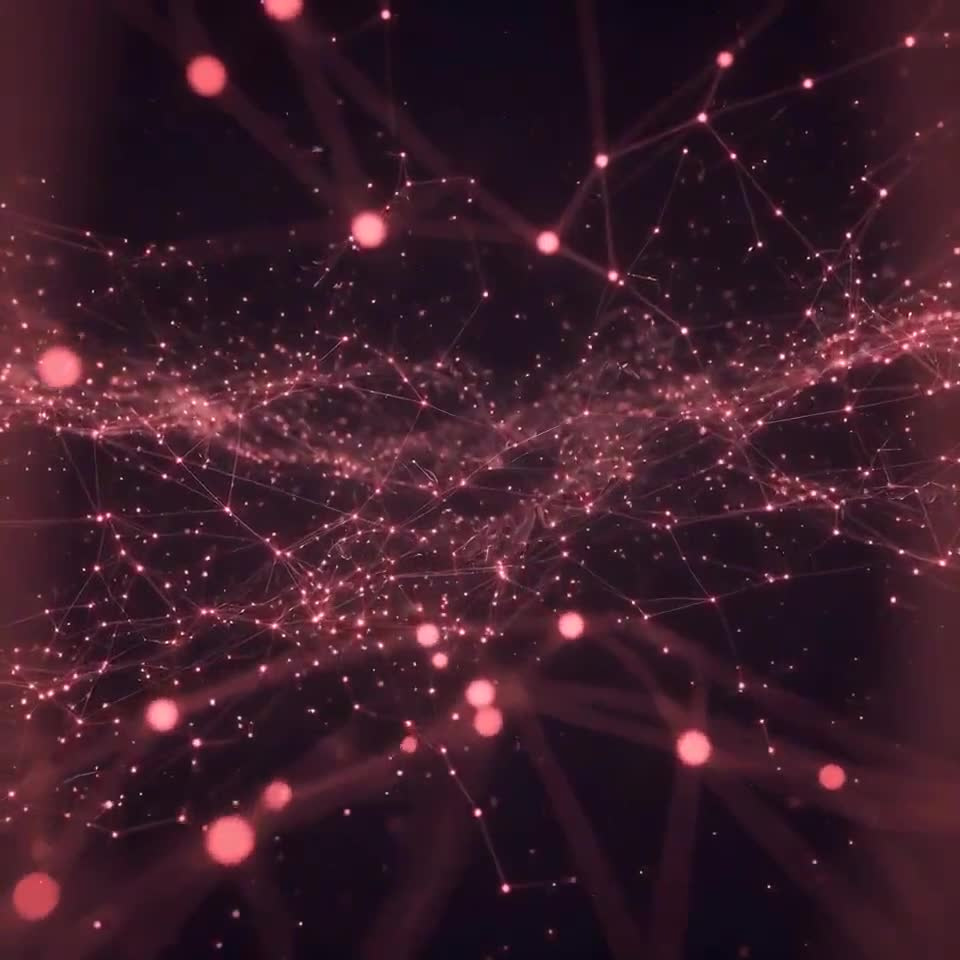
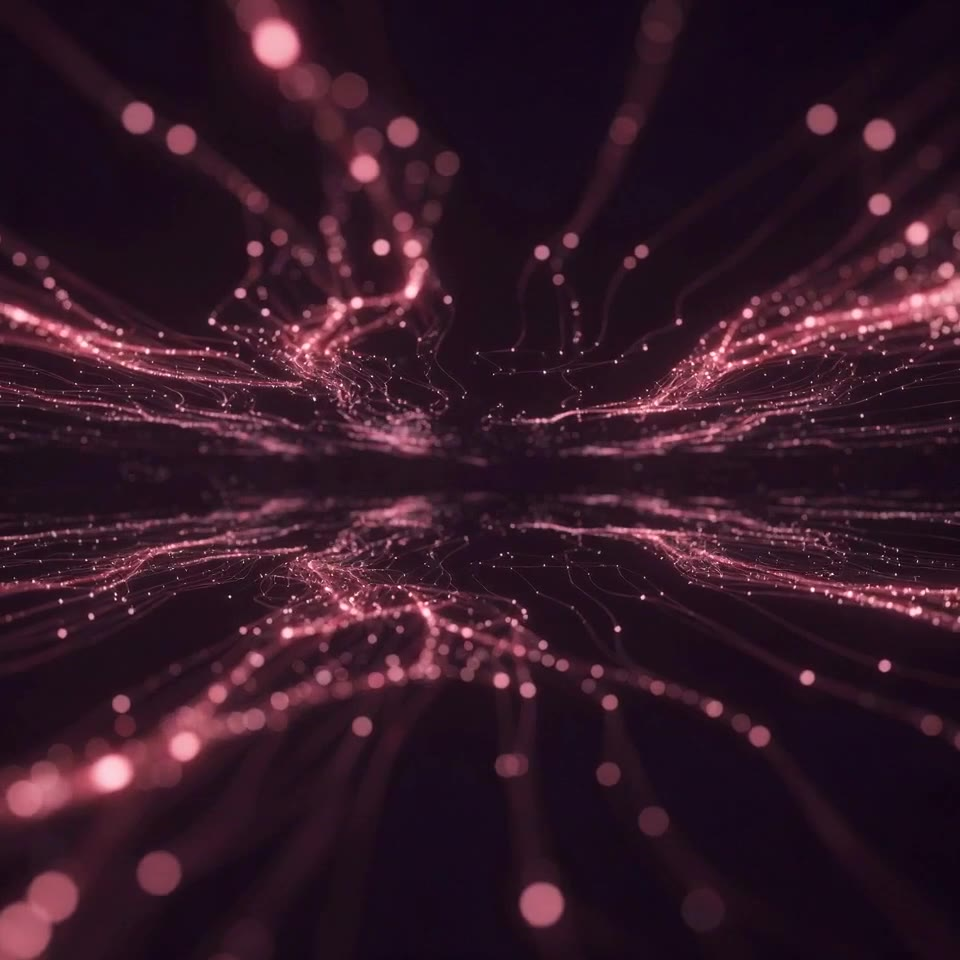
feat(home): video de fondo en HD (re-encode del original a CRF 20)
- Re-comprimí el video original (9.5MB) a 960×960 @ ~2.7 Mbps (CRF 20, preset
  slow, sin audio, +faststart) → 6.9MB nítido. Los puntos flotantes cercanos
  dejan de verse borrosos.
- site-bg.tsx vuelve al fondo de video (crossfade sin cortes) con este archivo.
- Poster regenerado del nuevo source.
- Docs: STATUS.md (home/fondo).

https://claude.ai/code/session_015MHUGChHEsoE6bg5AWK9Bg

diff --git a/components/marketing/site-bg.tsx b/components/marketing/site-bg.tsx
@@ -1,19 +1,84 @@
 "use client";
 
-import { HeroCanvas } from "@/components/marketing/hero-canvas";
+import { useEffect, useRef, type RefObject } from "react";
 
-// Global immersive background — the "data dive" that stays behind the hero, the
-// wizard and the run dashboard ("siempre en el fondo"). Lives in the root layout
-// so it persists across navigation (never re-mounts / cuts).
+// Global immersive video background — the cover animation that stays behind the
+// hero, the wizard and the run dashboard ("siempre en el fondo"). Lives in the
+// root layout so it persists across navigation (never re-mounts / cuts).
 //
-// Uses the Canvas 2D particle/network field (HeroCanvas): crisp at any
-// resolution and DPR (no video compression blur on the near floating dots),
-// zero download, paused under prefers-reduced-motion. A legibility scrim sits on
-// top — lighter at the hero, darker lower down.
+// Seamless loop via crossfade: two stacked <video> elements ping-pong — as one
+// nears its end the other starts and we crossfade opacity, so there's no hard
+// cut and no dark dip ("fade y vuelve a empezar"). Muted; paused under
+// prefers-reduced-motion (poster stays).
 export function SiteBackground() {
+  const aRef = useRef<HTMLVideoElement>(null);
+  const bRef = useRef<HTMLVideoElement>(null);
+
+  useEffect(() => {
+    const a = aRef.current;
+    const b = bRef.current;
+    if (!a || !b) return;
+    if (window.matchMedia("(prefers-reduced-motion: reduce)").matches) {
+      a.pause();
+      b.pause();
+      return;
+    }
+
+    const FADE = 0.9; // seconds
+    let cur = a;
+    let nxt = b;
+    let swapping = false;
+
+    cur.style.opacity = "1";
+    nxt.style.opacity = "0";
+    cur.play().catch(() => {});
+
+    const onTime = (e: Event) => {
+      if (swapping || e.target !== cur) return;
+      const d = cur.duration;
+      if (!d || Number.isNaN(d)) return;
+      if (cur.currentTime >= d - FADE) {
+        swapping = true;
+        nxt.currentTime = 0;
+        nxt.play().catch(() => {});
+        cur.style.opacity = "0";
+        nxt.style.opacity = "1";
+        const finishing = cur;
+        window.setTimeout(() => {
+          finishing.pause();
+          const t = cur;
+          cur = nxt;
+          nxt = t;
+          swapping = false;
+        }, FADE * 1000);
+      }
+    };
+
+    a.addEventListener("timeupdate", onTime);
+    b.addEventListener("timeupdate", onTime);
+    return () => {
+      a.removeEventListener("timeupdate", onTime);
+      b.removeEventListener("timeupdate", onTime);
+    };
+  }, []);
+
+  const vid = (r: RefObject<HTMLVideoElement | null>, first: boolean) => (
+    <video
+      ref={r}
+      src="/hero/hero.mp4"
+      poster={first ? "/hero/hero-poster.jpg" : undefined}
+      muted
+      playsInline
+      autoPlay={first}
+      preload="auto"
+      style={{ position: "absolute", inset: 0, width: "100%", height: "100%", objectFit: "cover", opacity: first ? 1 : 0, transition: "opacity 0.9s ease-in-out" }}
+    />
+  );
+
   return (
     <div aria-hidden style={{ position: "fixed", inset: 0, zIndex: -1, pointerEvents: "none", overflow: "hidden", background: "var(--bg)" }}>
-      <HeroCanvas style={{ position: "absolute", inset: 0, width: "100%", height: "100%", display: "block" }} />
+      {vid(aRef, true)}
+      {vid(bRef, false)}
       {/* legibility scrim — lighter at the top (hero), darker lower (sections) */}
       <div style={{ position: "absolute", inset: 0, background: "linear-gradient(180deg, rgba(10,8,16,0.28) 0%, rgba(10,8,16,0.5) 55%, rgba(10,8,16,0.8) 100%)" }} />
     </div>

diff --git a/docs/STATUS.md b/docs/STATUS.md
@@ -129,7 +129,7 @@ Enum `platform`: instagram, tiktok, youtube, facebook, x, reddit, mastodon, blue
 
 - **Dark por defecto** (toggle claro). Paleta `.dark`: `--bg #0A0810`, `--surface #15131C/#1C1924`, texto `#F4F1EA/#8C8696/#5A5563`, **`--accent #F23A5E`** (sangría brillante), `--accent-ink`. Tema claro conserva sangría `#6B1A36`.
 - Escala editorial (`.t-hero`, `.t-section`, `.t-eyebrow`, `.t-lead`) con Newsreader gigante. `--series-*` monocromo + cliente en acento; Tremor `ink/sangria` con variantes `dark:` al nuevo acento.
-- **Home**: **fondo inmersivo GLOBAL "data dive"** (Canvas 2D de partículas + red de nodos — `components/marketing/hero-canvas.tsx` vía `site-bg.tsx`, fijo z-index -1, body transparente; **nítido a cualquier resolución/DPR**, sin descarga, parallax, pausa en `prefers-reduced-motion`) con scrim de legibilidad. *(Nota: antes era un video Grok comprimido; quedó borroso por el bitrate bajo (960×960 @766kb/s) y se perdió el source original, así que se volvió al canvas nítido. `public/hero/hero.mp4` quedó sin uso.)* **Sin cortina**: al cargar ves la animación y a ~2.5s ("inmersión") aparecen tagline + box. Marquee de fuentes, "qué hace", proceso, showcase del reporte, FAQ, footer. Smooth scroll (Lenis) + reveals; `prefers-reduced-motion`, focus-visible, AA.
+- **Home**: **video de fondo inmersivo GLOBAL** (Grok, 960×960 @ ~2.7 Mbps CRF 20, muteado, ~6.9 MB; `site-bg.tsx` crossfade sin cortes detrás de hero/wizard/run, fijo z-index -1) con scrim de legibilidad. *(El source original se re-comprimió a alta calidad tras quedar borroso un intento previo a 766 kb/s; `hero-canvas.tsx` queda como alternativa nítida sin video.)* **Sin cortina**: al cargar ves la animación y a ~2.5s ("inmersión") aparecen tagline + box. Marquee de fuentes, "qué hace", proceso, showcase del reporte, FAQ, footer. Smooth scroll (Lenis) + reveals; `prefers-reduced-motion`, focus-visible, AA.
 - Componentes del dashboard migrados a tokens semánticos (no rompen en dark). **Responsive** desde la home (nav mobile, type fluida, grillas que colapsan).
 - **Pase cosmético global** (vía tokens): radios más suaves (`--r-*`), **sombras visibles en dark** (`--sh-*`), scrollbars finos temáticos, `::selection` con acento, y hover/active consistente en botones (`.bb-btn`).
 